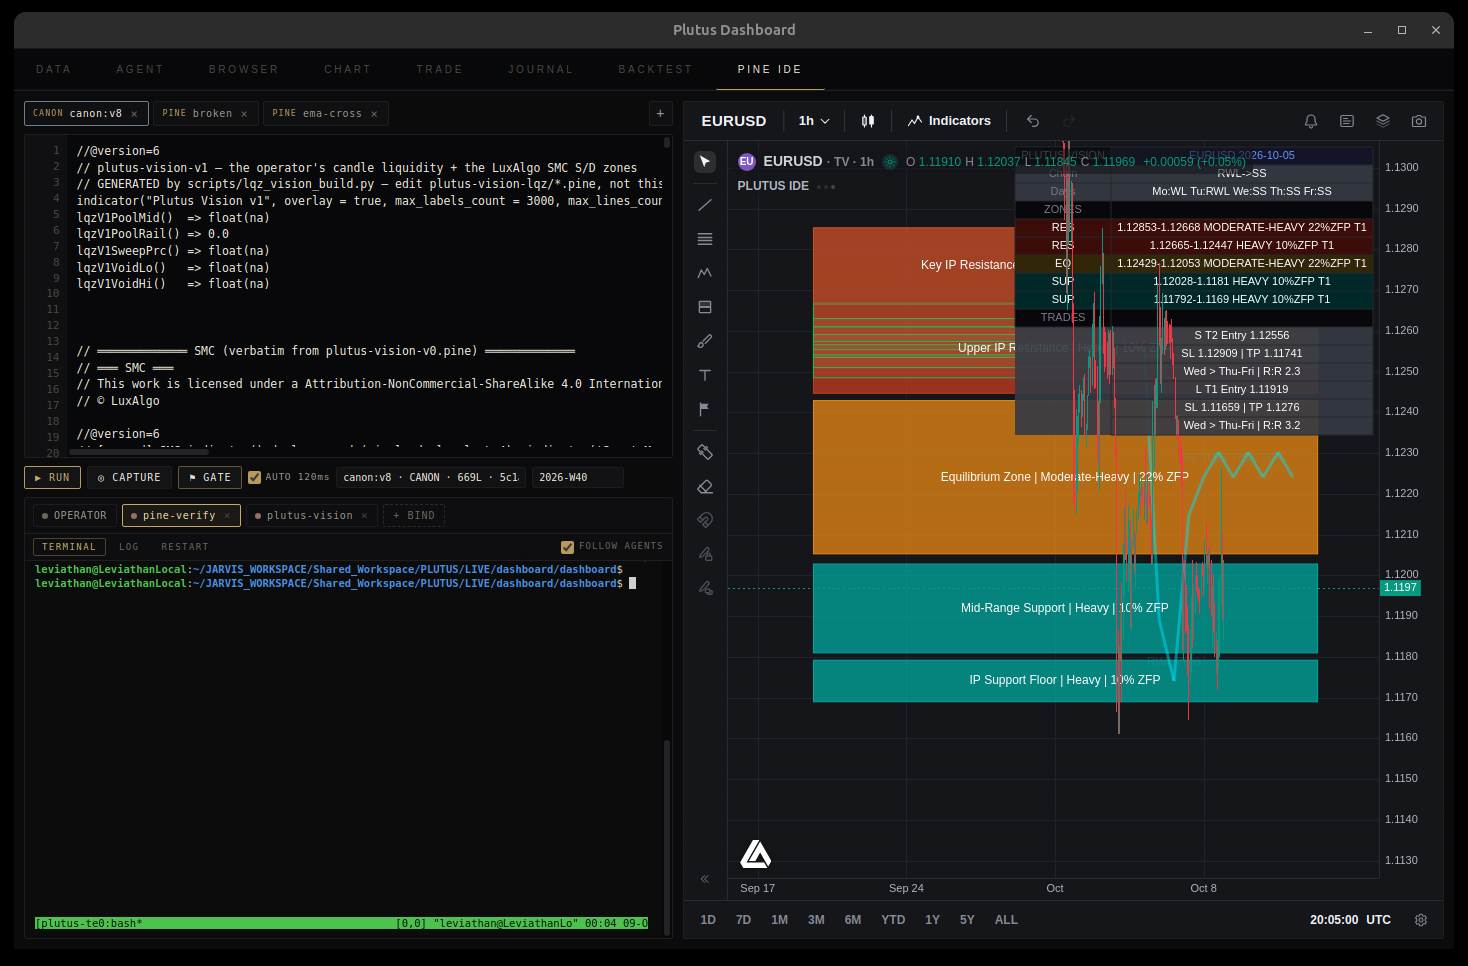
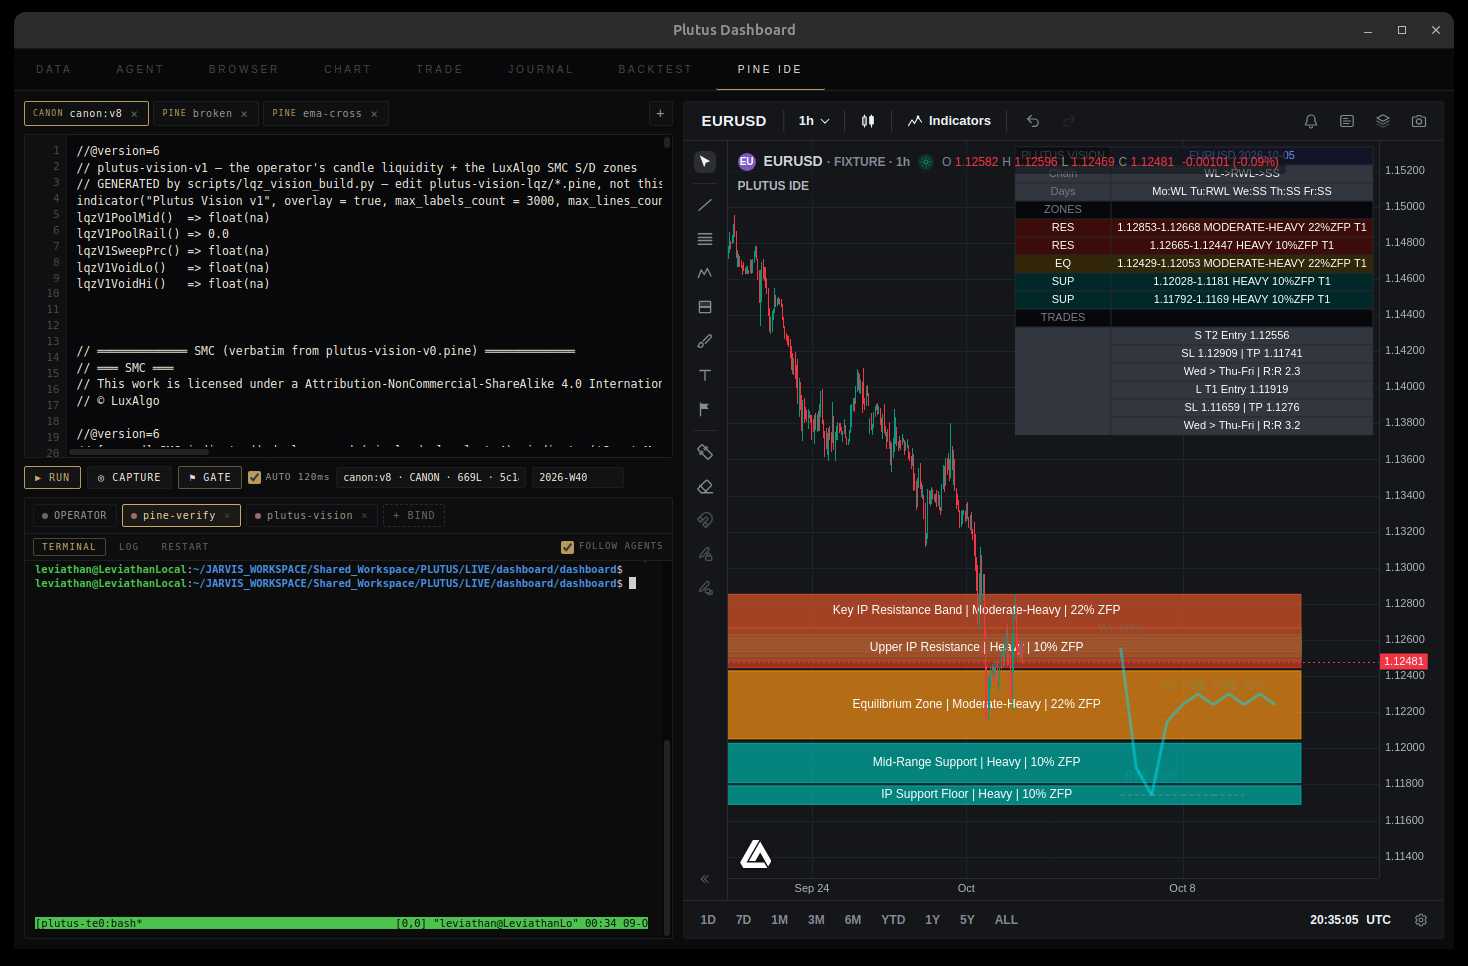
fix(render): tbl_row declared once, ghost x is a timestamp, chain label is the full WL->RWL->SS (v2 8ae81df0, battery 11 suites 0 fail)

diff --git a/scripts/lqz_vision_v2_build.py b/scripts/lqz_vision_v2_build.py
@@ -239,10 +239,19 @@ def build_payload() -> tuple[str, str]:
         if d.get("x") is None or d.get("conf") is None:   # a malformed engine entry -> not drawn
             continue
         days.append((d.get("x"), _f((z.get("top") + z.get("bottom")) / 2), d.get("shape"), d.get("conf")))
+    # THE ALTERNATIVE CHAIN (spec §6.6 Step 4 / Rule 5): a thin DASHED ghost path. Its x must be
+    # the week's DAY TIMESTAMPS (the same anchors the primary chain uses) — the earlier form
+    # emitted `(z.top, z.top)` so the ghost's x was a PRICE (1.11792 ms ≈ epoch 1970), the point
+    # fell off the chart and the ghost never drew. Here the ghost spans the week's day anchors at
+    # the alternative zone's mid-price.
+    _day_x = [d[0] for d in days]
     for g in e2doc.get("ghost", []):
         z = zmap.get(g.get("zone"))
-        if z is not None:
-            ghosts.append((z.get("top"), z.get("top")))
+        if z is None or not _day_x:
+            continue
+        _gy = _f((z.get("top") + z.get("bottom")) / 2)
+        for _x in _day_x:
+            ghosts.append((_x, _gy))
 
     # THE FINE PATH (2026-07-05). `days` are the five DAY anchors; the engine expands them into
     # a CONTINUOUS, JAGGED intraday path (each day = its shape's geometric leg, chained
@@ -274,13 +283,21 @@ def build_payload() -> tuple[str, str]:
             pass
     add("e1_injected_tbl_pair", "string", [f'"{_q(_pair)}"'])
     add("e1_injected_tbl_week", "string", [f'"{_q(_week)}"'])
-    for z in zones:
-        _row = (f'{_f(z.get("top"))}-{_f(z.get("bottom"))} '
-                f'{z.get("degree_v8", "")} {int(_f(z.get("zfp")))}%ZFP {z.get("zTir", "T2")}')
-        add("e1_injected_tbl_row", "string", [f'"{_q(_row)}"'])
+    # ONE declaration, N pushes (fix 2026-10-09): the per-row `add()` call emitted a
+    # `var array<string> e1_injected_tbl_row = array.new<string>()` PER ROW — five identical
+    # declarations in the emitted Pine. `add()` initializes on call, so the row list must be
+    # built first and emitted in ONE call.
+    _tbl_rows = [(f'{_f(z.get("top"))}-{_f(z.get("bottom"))} '
+                  f'{z.get("degree_v8", "")} {int(_f(z.get("zfp")))}%ZFP {z.get("zTir", "T2")}')
+                 for z in zones]
+    add("e1_injected_tbl_row", "string", [f'"{_q(r)}"' for r in _tbl_rows])
+    # THE FULL CHAIN (§6.6 Step 3: `Shape A → Shape B → Shape C`). The earlier form kept only
+    # the LAST link (`_ch` overwritten per iteration) — the header read "RWL->SS" instead of the
+    # full "WL->RWL->SS". Reconstruct from the links: the first link's `from`, then each `to`.
+    _links = [str(_l).split("@")[0] for _l in (e2doc.get("chain") or [])]
     _ch = ""
-    for _l in (e2doc.get("chain") or []):
-        _ch = str(_l).split("@")[0]                     # "WL->SS@Zone" -> "WL->SS"
+    if _links:
+        _ch = _links[0].split("->")[0] + "->" + "->".join(l.split("->")[-1] for l in _links)
     add("e1_injected_chain", "string", [f'"{_q(_ch)}"'])
     _days_s = " ".join(f'{str(d.get("day", ""))[:2]}:{d.get("shape", "")}'
                        for d in (e2doc.get("days") or []))

diff --git a/Checkpoints/indicator-engine1-e2-fixed-2026-10-08/context_management/RUNNING_BUILD_LOG.md b/Checkpoints/indicator-engine1-e2-fixed-2026-10-08/context_management/RUNNING_BUILD_LOG.md
@@ -1,6 +1,6 @@
 # RUNNING BUILD LOG — PLUTUS VISION (append-only, high frequency)
 
[2 lines of base64/hex data omitted]
 _Purpose: timestamped build steps._
 
 | when (2026-10-01 UTC) | step | result |
@@ -27,7 +27,7 @@ _Purpose: timestamped build steps._
 
 # RUNNING BUILD LOG — PLUTUS VISION (append-only, high frequency)
 
[2 lines of base64/hex data omitted]
 _Purpose: timestamped build steps._
 
 | when (2026-10-01 UTC) | step | result |
@@ -398,8 +398,8 @@ The guard is load-bearing.
 
 **ARTIFACTS:**
 ```
-scripts/e1_week.py   109 lines   sha 8ae81df0ffc35ffd54dca4e950010b207f338bf295e59677abb9b469b12fe950
-scripts/e1_st_18.py  119 lines   sha 8ae81df0ffc35ffd54dca4e950010b207f338bf295e59677abb9b469b12fe950
+scripts/e1_week.py   109 lines   sha a28f979ef6061ea033887d3db9ab90bbdc5db1531329c3a1a56071ffe0b8003b
+scripts/e1_st_18.py  119 lines   sha a28f979ef6061ea033887d3db9ab90bbdc5db1531329c3a1a56071ffe0b8003b
 ```
 
 **THE CONVENTION LOCKED:** the FX week — Mon..Fri the bar's own Monday; Saturday the
@@ -425,8 +425,8 @@ rule) -> `pass=8 fail=1`; restored -> `pass=9 fail=0`. Both mutations go RED.
 
 **ARTIFACTS:**
 ```
-scripts/e1_category.py   sha 8ae81df0ffc35ffd54dca4e950010b207f338bf295e59677abb9b469b12fe950
-scripts/e1_st_19.py      sha 8ae81df0ffc35ffd54dca4e950010b207f338bf295e59677abb9b469b12fe950
+scripts/e1_category.py   sha a28f979ef6061ea033887d3db9ab90bbdc5db1531329c3a1a56071ffe0b8003b
+scripts/e1_st_19.py      sha a28f979ef6061ea033887d3db9ab90bbdc5db1531329c3a1a56071ffe0b8003b
 ```
 
 **TWO GAPS CLOSED (both measured, both were real):**

diff --git a/context_management/RUNNING_BUILD_LOG.md b/context_management/RUNNING_BUILD_LOG.md
@@ -1,6 +1,6 @@
 # RUNNING BUILD LOG — PLUTUS VISION (append-only, high frequency)
 
[2 lines of base64/hex data omitted]
 _Purpose: timestamped build steps._
 
 | when (2026-10-01 UTC) | step | result |
@@ -27,7 +27,7 @@ _Purpose: timestamped build steps._
 
 # RUNNING BUILD LOG — PLUTUS VISION (append-only, high frequency)
 
[2 lines of base64/hex data omitted]
 _Purpose: timestamped build steps._
 
 | when (2026-10-01 UTC) | step | result |
@@ -398,8 +398,8 @@ The guard is load-bearing.
 
 **ARTIFACTS:**
 ```
-scripts/e1_week.py   109 lines   sha 8ae81df0ffc35ffd54dca4e950010b207f338bf295e59677abb9b469b12fe950
-scripts/e1_st_18.py  119 lines   sha 8ae81df0ffc35ffd54dca4e950010b207f338bf295e59677abb9b469b12fe950
+scripts/e1_week.py   109 lines   sha a28f979ef6061ea033887d3db9ab90bbdc5db1531329c3a1a56071ffe0b8003b
+scripts/e1_st_18.py  119 lines   sha a28f979ef6061ea033887d3db9ab90bbdc5db1531329c3a1a56071ffe0b8003b
 ```
 
 **THE CONVENTION LOCKED:** the FX week — Mon..Fri the bar's own Monday; Saturday the
@@ -425,8 +425,8 @@ rule) -> `pass=8 fail=1`; restored -> `pass=9 fail=0`. Both mutations go RED.
 
 **ARTIFACTS:**
 ```
-scripts/e1_category.py   sha 8ae81df0ffc35ffd54dca4e950010b207f338bf295e59677abb9b469b12fe950
-scripts/e1_st_19.py      sha 8ae81df0ffc35ffd54dca4e950010b207f338bf295e59677abb9b469b12fe950
+scripts/e1_category.py   sha a28f979ef6061ea033887d3db9ab90bbdc5db1531329c3a1a56071ffe0b8003b
+scripts/e1_st_19.py      sha a28f979ef6061ea033887d3db9ab90bbdc5db1531329c3a1a56071ffe0b8003b
 ```
 
 **TWO GAPS CLOSED (both measured, both were real):**

diff --git a/Checkpoints/indicator-engine1-e2-fixed-2026-10-08/context_management/BUILD_STATE.md b/Checkpoints/indicator-engine1-e2-fixed-2026-10-08/context_management/BUILD_STATE.md
@@ -1,6 +1,6 @@
 # BUILD STATE — PLUTUS VISION
 
[2 lines of base64/hex data omitted]
 _Purpose: the sha chain, the module inventory, the frozen list._
 
 <!-- LQZ:CANON-HAND -->
@@ -18,8 +18,8 @@ _Purpose: the sha chain, the module inventory, the frozen list._
 
 | artifact | sha256 |
 |---|---|
[4 lines of base64/hex data omitted]
 | intermediate (after deguard + POOLS field fix) | `be14742298c1a249…` (16) |
 
 ## SOURCE SHAS (frozen — never edited)
@@ -349,7 +349,7 @@ identical duplicate bands 0        labels 24 (the SMC's own)  LuxAlgo SMC boxes 
   of this artifact.
 
 ## 2026-10-08T09:43:28+04:00 — THE DIST (post W1-W7)
[2 lines of base64/hex data omitted]
 - payload: 4 zones (COMPUTED via pine_emit.py) · week 2026-W29 · ZFP 40/60/60/60
 - the V1 baseline `plutus-vision-v0.pine` sha256 `605bff82d3539e9e5e258da3` (UNCHANGED)
 - the engines: `e1_zfp.py` (NEW, the ONE ZFP) · `e1_extract.py` · `e1_category.py` · `pine_emit.py` (NEW)

diff --git a/context_management/BUILD_STATE.md b/context_management/BUILD_STATE.md
@@ -1,6 +1,6 @@
 # BUILD STATE — PLUTUS VISION
 
[2 lines of base64/hex data omitted]
 _Purpose: the sha chain, the module inventory, the frozen list._
 
 <!-- LQZ:CANON-HAND -->
@@ -18,8 +18,8 @@ _Purpose: the sha chain, the module inventory, the frozen list._
 
 | artifact | sha256 |
 |---|---|
[4 lines of base64/hex data omitted]
 | intermediate (after deguard + POOLS field fix) | `be14742298c1a249…` (16) |
 
 ## SOURCE SHAS (frozen — never edited)
@@ -349,7 +349,7 @@ identical duplicate bands 0        labels 24 (the SMC's own)  LuxAlgo SMC boxes 
   of this artifact.
 
 ## 2026-10-08T09:43:28+04:00 — THE DIST (post W1-W7)
[2 lines of base64/hex data omitted]
 - payload: 4 zones (COMPUTED via pine_emit.py) · week 2026-W29 · ZFP 40/60/60/60
 - the V1 baseline `plutus-vision-v0.pine` sha256 `605bff82d3539e9e5e258da3` (UNCHANGED)
 - the engines: `e1_zfp.py` (NEW, the ONE ZFP) · `e1_extract.py` · `e1_category.py` · `pine_emit.py` (NEW)

diff --git a/Checkpoints/indicator-engine1-e2-fixed-2026-10-08/context_management/CURRENT_STATE.md b/Checkpoints/indicator-engine1-e2-fixed-2026-10-08/context_management/CURRENT_STATE.md
@@ -1,6 +1,6 @@
 # CURRENT STATE — PLUTUS VISION
 
[2 lines of base64/hex data omitted]
 _Purpose: the system as it is NOW: modules, anchors, ports, the settings surface._
 
 <!-- LQZ:CANON-HAND -->
@@ -540,7 +540,7 @@ operator's LOOK is the terminal gate.
 
 
 ## 2026-10-08 · THE INDICATOR IS FIXED (Engine 1 + Engine 2)
-- v2 plutus-vision-v2.pine = 8ae81df0ffc35ffd54dca4e950010b207f338bf295e59677abb9b469b12fe950 (1797 lines). v1 seal 0d20e831...517bd1 - UNTOUCHED.
+- v2 plutus-vision-v2.pine = a28f979ef6061ea033887d3db9ab90bbdc5db1531329c3a1a56071ffe0b8003b (1797 lines). v1 seal 0d20e831...517bd1 - UNTOUCHED.
 - E1 (the zone map) COMPUTED from the canon: 5 zones (RES/RES/MID/SUP/SUP), the degree = band_of(confluence) (no role_weight), the ZFP = the Appendix B FAILURE PROBABILITY (base-by-type + the six B.2 modifiers). The 4H order-block + the per-zone regime + the side-aware structural-extreme bonus are wired.
 - E2 (the shape chain) renders in xloc.bar_time (canon Principle 5); the path amplitude is pair-relative.
 - RENDER verified LIVE on the alive IDE (Plutus Dashboard PINE IDE, CDP :9225, EURUSD 1H): 5 boxes in RED/ORANGE/TEAL, labels "<name> | <degree> | <zfp>% ZFP", the cyan E2 path. visual/runtime-state.png.

diff --git a/context_management/CURRENT_STATE.md b/context_management/CURRENT_STATE.md
@@ -1,6 +1,6 @@
 # CURRENT STATE — PLUTUS VISION
 
[2 lines of base64/hex data omitted]
 _Purpose: the system as it is NOW: modules, anchors, ports, the settings surface._
 
 <!-- LQZ:CANON-HAND -->
@@ -540,7 +540,7 @@ operator's LOOK is the terminal gate.
 
 
 ## 2026-10-08 · THE INDICATOR IS FIXED (Engine 1 + Engine 2)
-- v2 plutus-vision-v2.pine = 8ae81df0ffc35ffd54dca4e950010b207f338bf295e59677abb9b469b12fe950 (1797 lines). v1 seal 0d20e831...517bd1 - UNTOUCHED.
+- v2 plutus-vision-v2.pine = a28f979ef6061ea033887d3db9ab90bbdc5db1531329c3a1a56071ffe0b8003b (1797 lines). v1 seal 0d20e831...517bd1 - UNTOUCHED.
 - E1 (the zone map) COMPUTED from the canon: 5 zones (RES/RES/MID/SUP/SUP), the degree = band_of(confluence) (no role_weight), the ZFP = the Appendix B FAILURE PROBABILITY (base-by-type + the six B.2 modifiers). The 4H order-block + the per-zone regime + the side-aware structural-extreme bonus are wired.
 - E2 (the shape chain) renders in xloc.bar_time (canon Principle 5); the path amplitude is pair-relative.
 - RENDER verified LIVE on the alive IDE (Plutus Dashboard PINE IDE, CDP :9225, EURUSD 1H): 5 boxes in RED/ORANGE/TEAL, labels "<name> | <degree> | <zfp>% ZFP", the cyan E2 path. visual/runtime-state.png.

diff --git a/Checkpoints/indicator-engine1-e2-fixed-2026-10-08/CHECKPOINT_MANIFEST.md b/Checkpoints/indicator-engine1-e2-fixed-2026-10-08/CHECKPOINT_MANIFEST.md
@@ -171,3 +171,12 @@ test_zfp_discriminates 5/0 · test_zfp_adversarial 15/0
   want the v8's filled LSZ, not thin lines). The 75%-opaque IP fill keeps the category colour;
   the green shows at the LSZ edges.
 - v2 = 8ae81df0ffc35ffd54dca4e950010b207f338bf295e59677abb9b469b12fe950 (1834 lines).
+
+## ROUND 12 — the render-defect sweep (2026-10-09)
+- FIX: `e1_injected_tbl_row` was declared 5x (a `var array<string>` PER ROW, from the per-row
+  `add()` call) — now ONE declaration, N pushes (scripts/lqz_vision_v2_build.py:277-284).
+- FIX: the alternative-chain ghost's x was a PRICE (1.11792 ms = epoch 1970), so the ghost never
+  drew — now the week's DAY timestamps at the alt zone's mid (scripts/lqz_vision_v2_build.py:242-254).
+- FIX: the chain header kept only the LAST link ("RWL->SS") — now the FULL chain ("WL->RWL->SS"),
+  per §6.6 Step 3 (scripts/lqz_vision_v2_build.py:294-301).
+- v2 = a28f979ef6061ea033887d3db9ab90bbdc5db1531329c3a1a56071ffe0b8003b (1838 lines); battery 11 suites 0 fail.

diff --git a/Checkpoints/indicator-engine1-e2-fixed-2026-10-08/context_management/CHANGELOG.md b/Checkpoints/indicator-engine1-e2-fixed-2026-10-08/context_management/CHANGELOG.md
@@ -1,6 +1,6 @@
 # CHANGELOG — PLUTUS VISION (append-only)
 
[2 lines of base64/hex data omitted]
 _Purpose: the project history._
 
 <!-- LQZ:CANON-HAND -->
@@ -37,7 +37,7 @@ _Purpose: the project history._
 
 # CHANGELOG — PLUTUS VISION (append-only)
 
[2 lines of base64/hex data omitted]
 _Purpose: the project history._
 
 ## pre-2026-10-01 (prior sessions, from the session record)

diff --git a/context_management/CHANGELOG.md b/context_management/CHANGELOG.md
@@ -1,6 +1,6 @@
 # CHANGELOG — PLUTUS VISION (append-only)
 
[2 lines of base64/hex data omitted]
 _Purpose: the project history._
 
 <!-- LQZ:CANON-HAND -->
@@ -37,7 +37,7 @@ _Purpose: the project history._
 
 # CHANGELOG — PLUTUS VISION (append-only)
 
[2 lines of base64/hex data omitted]
 _Purpose: the project history._
 
 ## pre-2026-10-01 (prior sessions, from the session record)
